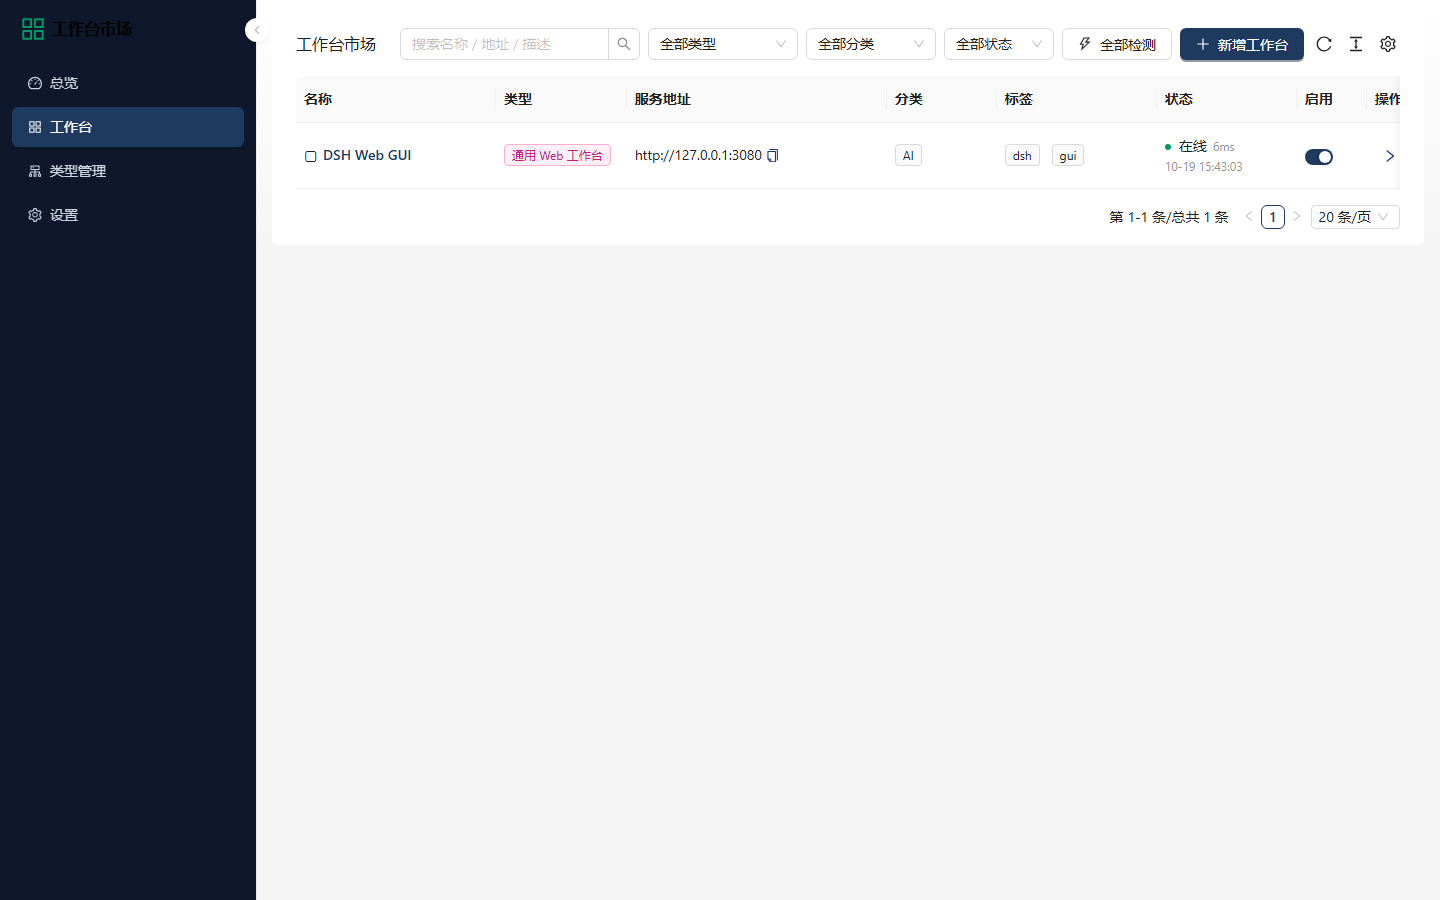
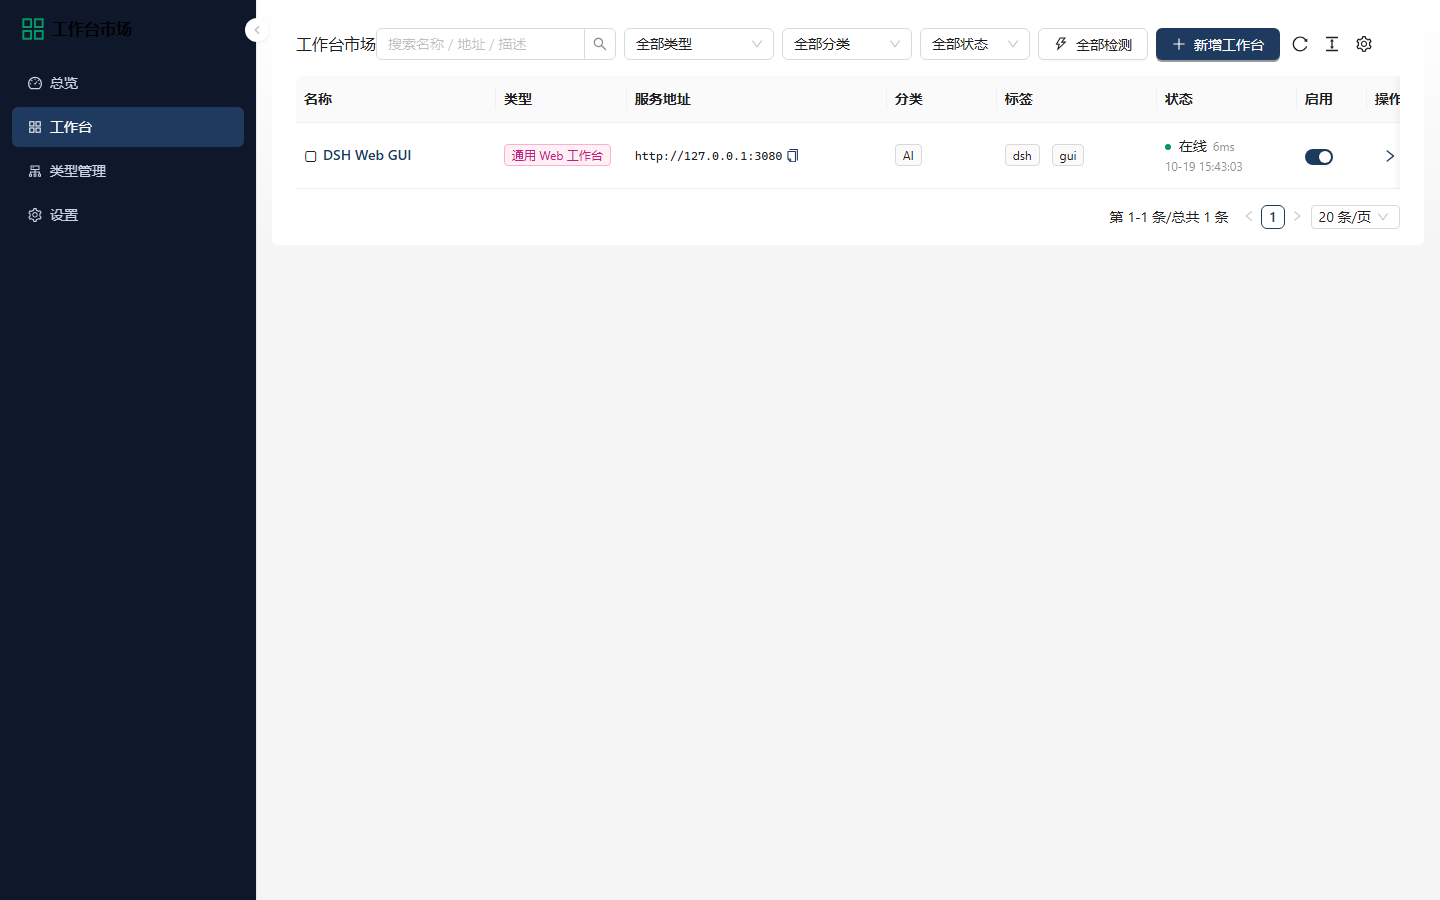
style: 字体排版优化 —— 系统栈定稿 + Cascadia Mono 机器值 + 瑞士统计标签
- 无 webfont 内网决策落地 MASTER.md（作废生成稿 Google Fonts import）
- 等宽栈 Cascadia Mono 应用于 URL/端口/路径/类型标识/数据文件位置（.wm-mono + .ant-typography code 覆盖）
- 统计标签瑞士风：12px/600/0.05em/uppercase/次级色（.wm-stat-label）
- MASTER.md 增实现校正节：亮主题+深侧栏真值、对比度实测记录
- kb 沉淀：011e5d8c2b 内网后台字体排版决策
- E2E 14/14 无回归；antd lint 0 告警

diff --git a/web/src/index.css b/web/src/index.css
@@ -15,6 +15,22 @@ body {
   font-variant-numeric: tabular-nums;
 }
 
+/* 等宽栈：URL/端口/路径等机器值统一 Cascadia Mono（Windows 已内置，零 webfont 请求）。
+   不用 Inter/JetBrains webfont——内网工具不拉外部字体（MASTER.md 已决） */
+.wm-mono,
+.ant-typography code {
+  font-family: 'Cascadia Mono', 'Cascadia Code', Consolas, 'Courier New', monospace;
+}
+
+/* 瑞士风统计标签：小号 + 加字距 + 次级色（CJK 不受 text-transform 影响） */
+.wm-stat-label {
+  font-size: 12px;
+  font-weight: 600;
+  letter-spacing: 0.05em;
+  text-transform: uppercase;
+  color: var(--ant-color-text-secondary, #5a6577);
+}
+
 /* ---------- 仪表盘卡片（react-grid-layout 内） ---------- */
 .wm-card {
   display: flex;
@@ -64,6 +80,7 @@ body {
 .wm-card-url {
   font-size: 12px;
   color: #64748b;
+  font-family: 'Cascadia Mono', 'Cascadia Code', Consolas, 'Courier New', monospace;
   overflow: hidden;
   text-overflow: ellipsis;
   white-space: nowrap;

diff --git a/web/src/pages/Settings.tsx b/web/src/pages/Settings.tsx
@@ -160,7 +160,7 @@ export default function Settings() {
             { key: 'name', label: '产品', children: 'workbench-market · 工作台市场' },
             { key: 'ver', label: '版本', children: <span className="wm-num">{String((healthReq.data as { version?: string })?.version ?? '0.1.0')}</span> },
             { key: 'arch', label: '架构', children: 'Express + node:sqlite（单文件 SQLite，零原生依赖）· React + antd + pro-components' },
-            { key: 'db', label: '数据位置', children: 'server/data/workbench-market.db（可用 DATA_DIR 环境变量重定向）' },
+            { key: 'db', label: '数据位置', children: <span className="wm-mono" style={{ fontSize: 12 }}>server/data/workbench-market.db（可用 DATA_DIR 环境变量重定向）</span> },
             { key: 'up', label: '服务运行时长', children: <span className="wm-num">{healthReq.data ? `${(healthReq.data as { uptime_s?: number }).uptime_s}s` : '-'}</span> },
           ]}
         />

diff --git a/web/src/pages/Dashboard.tsx b/web/src/pages/Dashboard.tsx
@@ -118,9 +118,7 @@ export default function Dashboard() {
           <Col key={it.title} xs={12} md={8} lg={4} xl={4} xxl={4}>
             <Card size="small" styles={{ body: { padding: '12px 16px' } }}>
               <div style={{ padding: '2px 0' }}>
-                <Typography.Text type="secondary" style={{ fontSize: 12 }}>
-                  {it.title}
-                </Typography.Text>
+                <span className="wm-stat-label">{it.title}</span>
                 <div className="wm-num" style={{ color: it.color, fontSize: 24, fontWeight: 600, lineHeight: 1.4 }}>
                   {it.value}
                   {it.suffix ? <span style={{ fontSize: 13, fontWeight: 400, marginLeft: 4 }}>{it.suffix}</span> : null}

diff --git a/web/src/pages/UseWorkbench.tsx b/web/src/pages/UseWorkbench.tsx
@@ -54,7 +54,7 @@ export default function UseWorkbench() {
         </Typography.Title>
         <StatusBadge status={w.last_status} latency={w.last_latency_ms} error={w.last_error} checkedAt={w.last_checked_at} />
         <Tag color="geekblue">{w.type}</Tag>
-        <Typography.Text className="wm-num" style={{ color: '#94A3B8', fontSize: 12 }}>
+        <Typography.Text className="wm-num wm-mono" style={{ color: '#94A3B8', fontSize: 12 }}>
           {w.url}
         </Typography.Text>
         <Space style={{ marginLeft: 'auto' }}>

diff --git a/web/src/pages/Types.tsx b/web/src/pages/Types.tsx
@@ -69,7 +69,7 @@ export default function Types() {
       title: '默认端口',
       dataIndex: 'default_port',
       width: 100,
-      render: (_, t) => (t.default_port ? <span className="wm-num">{t.default_port}</span> : <Typography.Text type="secondary">-</Typography.Text>),
+      render: (_, t) => (t.default_port ? <span className="wm-num wm-mono">{t.default_port}</span> : <Typography.Text type="secondary">-</Typography.Text>),
     },
     {
       title: '使用中',

diff --git a/web/src/pages/Market.tsx b/web/src/pages/Market.tsx
@@ -89,7 +89,7 @@ export default function Market() {
       width: 260,
       ellipsis: true,
       render: (_, w) => (
-        <Typography.Text copyable={{ text: w.url }} style={{ maxWidth: 300 }} ellipsis={{ tooltip: w.url }}>
+        <Typography.Text className="wm-mono" copyable={{ text: w.url }} style={{ maxWidth: 300, fontSize: 12 }} ellipsis={{ tooltip: w.url }}>
           {w.url}
         </Typography.Text>
       ),

diff --git a/design-system/workbench-market/MASTER.md b/design-system/workbench-market/MASTER.md
@@ -40,15 +40,17 @@
 
 ### Typography
 
-- **Heading Font:** Inter
-- **Body Font:** Inter
-- **Mood:** dark, cinematic, technical, precision, clean, premium, developer, professional, high-end utility
-- **Google Fonts:** [Inter + Inter](https://fonts.googleapis.com/css2?family=Inter:wght@300;400;500;600;700&display=swap)
+> **实现校正（2026-10-19）**：本工具为内网离线环境，**不使用 Google Fonts / 任何 webfont**（原生成稿的 `@import url(...)` 作废，禁止恢复）。字体一律走本地系统栈，零网络请求、零渲染阻塞。
 
-**CSS Import:**
-```css
-@import url('https://fonts.googleapis.com/css2?family=Inter:wght@300;400;500;600;700&display=swap');
-```
+- **UI / Body Font（实际栈）：**
+  `"Inter, -apple-system, BlinkMacSystemFont, 'Segoe UI', 'PingFang SC', 'Microsoft YaHei', 'Helvetica Neue', Arial, sans-serif"`
+  —— Windows 落 Segoe UI（已装全套字重 300–700），macOS 落 PingFang SC，若机器装有 Inter 自动优先。
+- **Mono Font（机器值：URL / 端口 / 路径 / 标识符）：**
+  `'Cascadia Mono', 'Cascadia Code', Consolas, 'Courier New', monospace`（Windows 内置 Cascadia，零 webfont）
+- **数字：** `font-variant-numeric: tabular-nums`（`.wm-num`，表格/统计/延迟一律等宽数字防跳动）
+- **统计标签（瑞士风）：** `.wm-stat-label` = 12px / 600 / `letter-spacing: 0.05em` / `text-transform: uppercase` / 次级色
+- **CJK 注意：** 不加汉字 tracking（0.05em 仅作用于拉丁标签的空气感）；标题字重 600。
+- **可读性基线：** body 14px（密度 8/10 的仪表台准则；移动端指引 16px 为内容站标准，本工具记为已接受的偏差）；次级文字 token `#5A6577`（白底 5.9:1，WCAG AA ≥4.5:1，替代 antd 默认 3.36:1 不达标的 rgba(0,0,0,.45)）。
 
 ### Spacing Variables
 
@@ -198,6 +200,18 @@ gsap.from(el, { opacity: 0, y: 12, duration: 0.35, ease: 'power1.out', scrollTri
 - ✅ Keep the y offset small (8-16px) so it reads as a fade, not a slide
 - ❌ Don't reveal below-the-fold content needed for SEO/crawlers as invisible-by-default without a no-JS fallback
 - ⚡ toggleActions 'play none none reverse' avoids re-triggering on every scroll direction change
+
+---
+
+## 实现校正记录（Implementation Truth）
+
+> 本节优先级高于上文生成稿中与实现冲突的部分。
+
+- **主题形态：** 亮色主题 + 深色侧栏（`#0F172A`）与深色嵌入顶栏；上表 Palette 中 Background/Card 等深色值仅用于侧栏/顶栏/使用页，主内容区背景 `#F6F7F9`、卡片 `#FFFFFF`。
+- **色板补充：** 选中/悬停强调边 `rgba(5,150,105,.45)`（emerald 微光）；统计色 在线 `#059669` / 离线 `#DC2626` / 未探测灰。
+- **字体：** 见 Typography 节实现校正——系统栈 + Cascadia Mono，无 webfont。
+- **对比度实测（2026-10-19 校对）：** 主文字 ~15:1 ✅；次级 `#5A6577` 5.9:1 ✅；错误红 `#DC2626` 4.83:1 ✅；成功绿 `#059669` 3.77:1 仅限图形点/开关（非文字）✅；卡片 URL `#64748b` 4.75:1 ✅。
+- **移动端：** 表格 `scroll.x` 横向滚动；工具栏双层 flex-wrap；详见 `evidence/ux-audit.md`。
 
 ---
 
